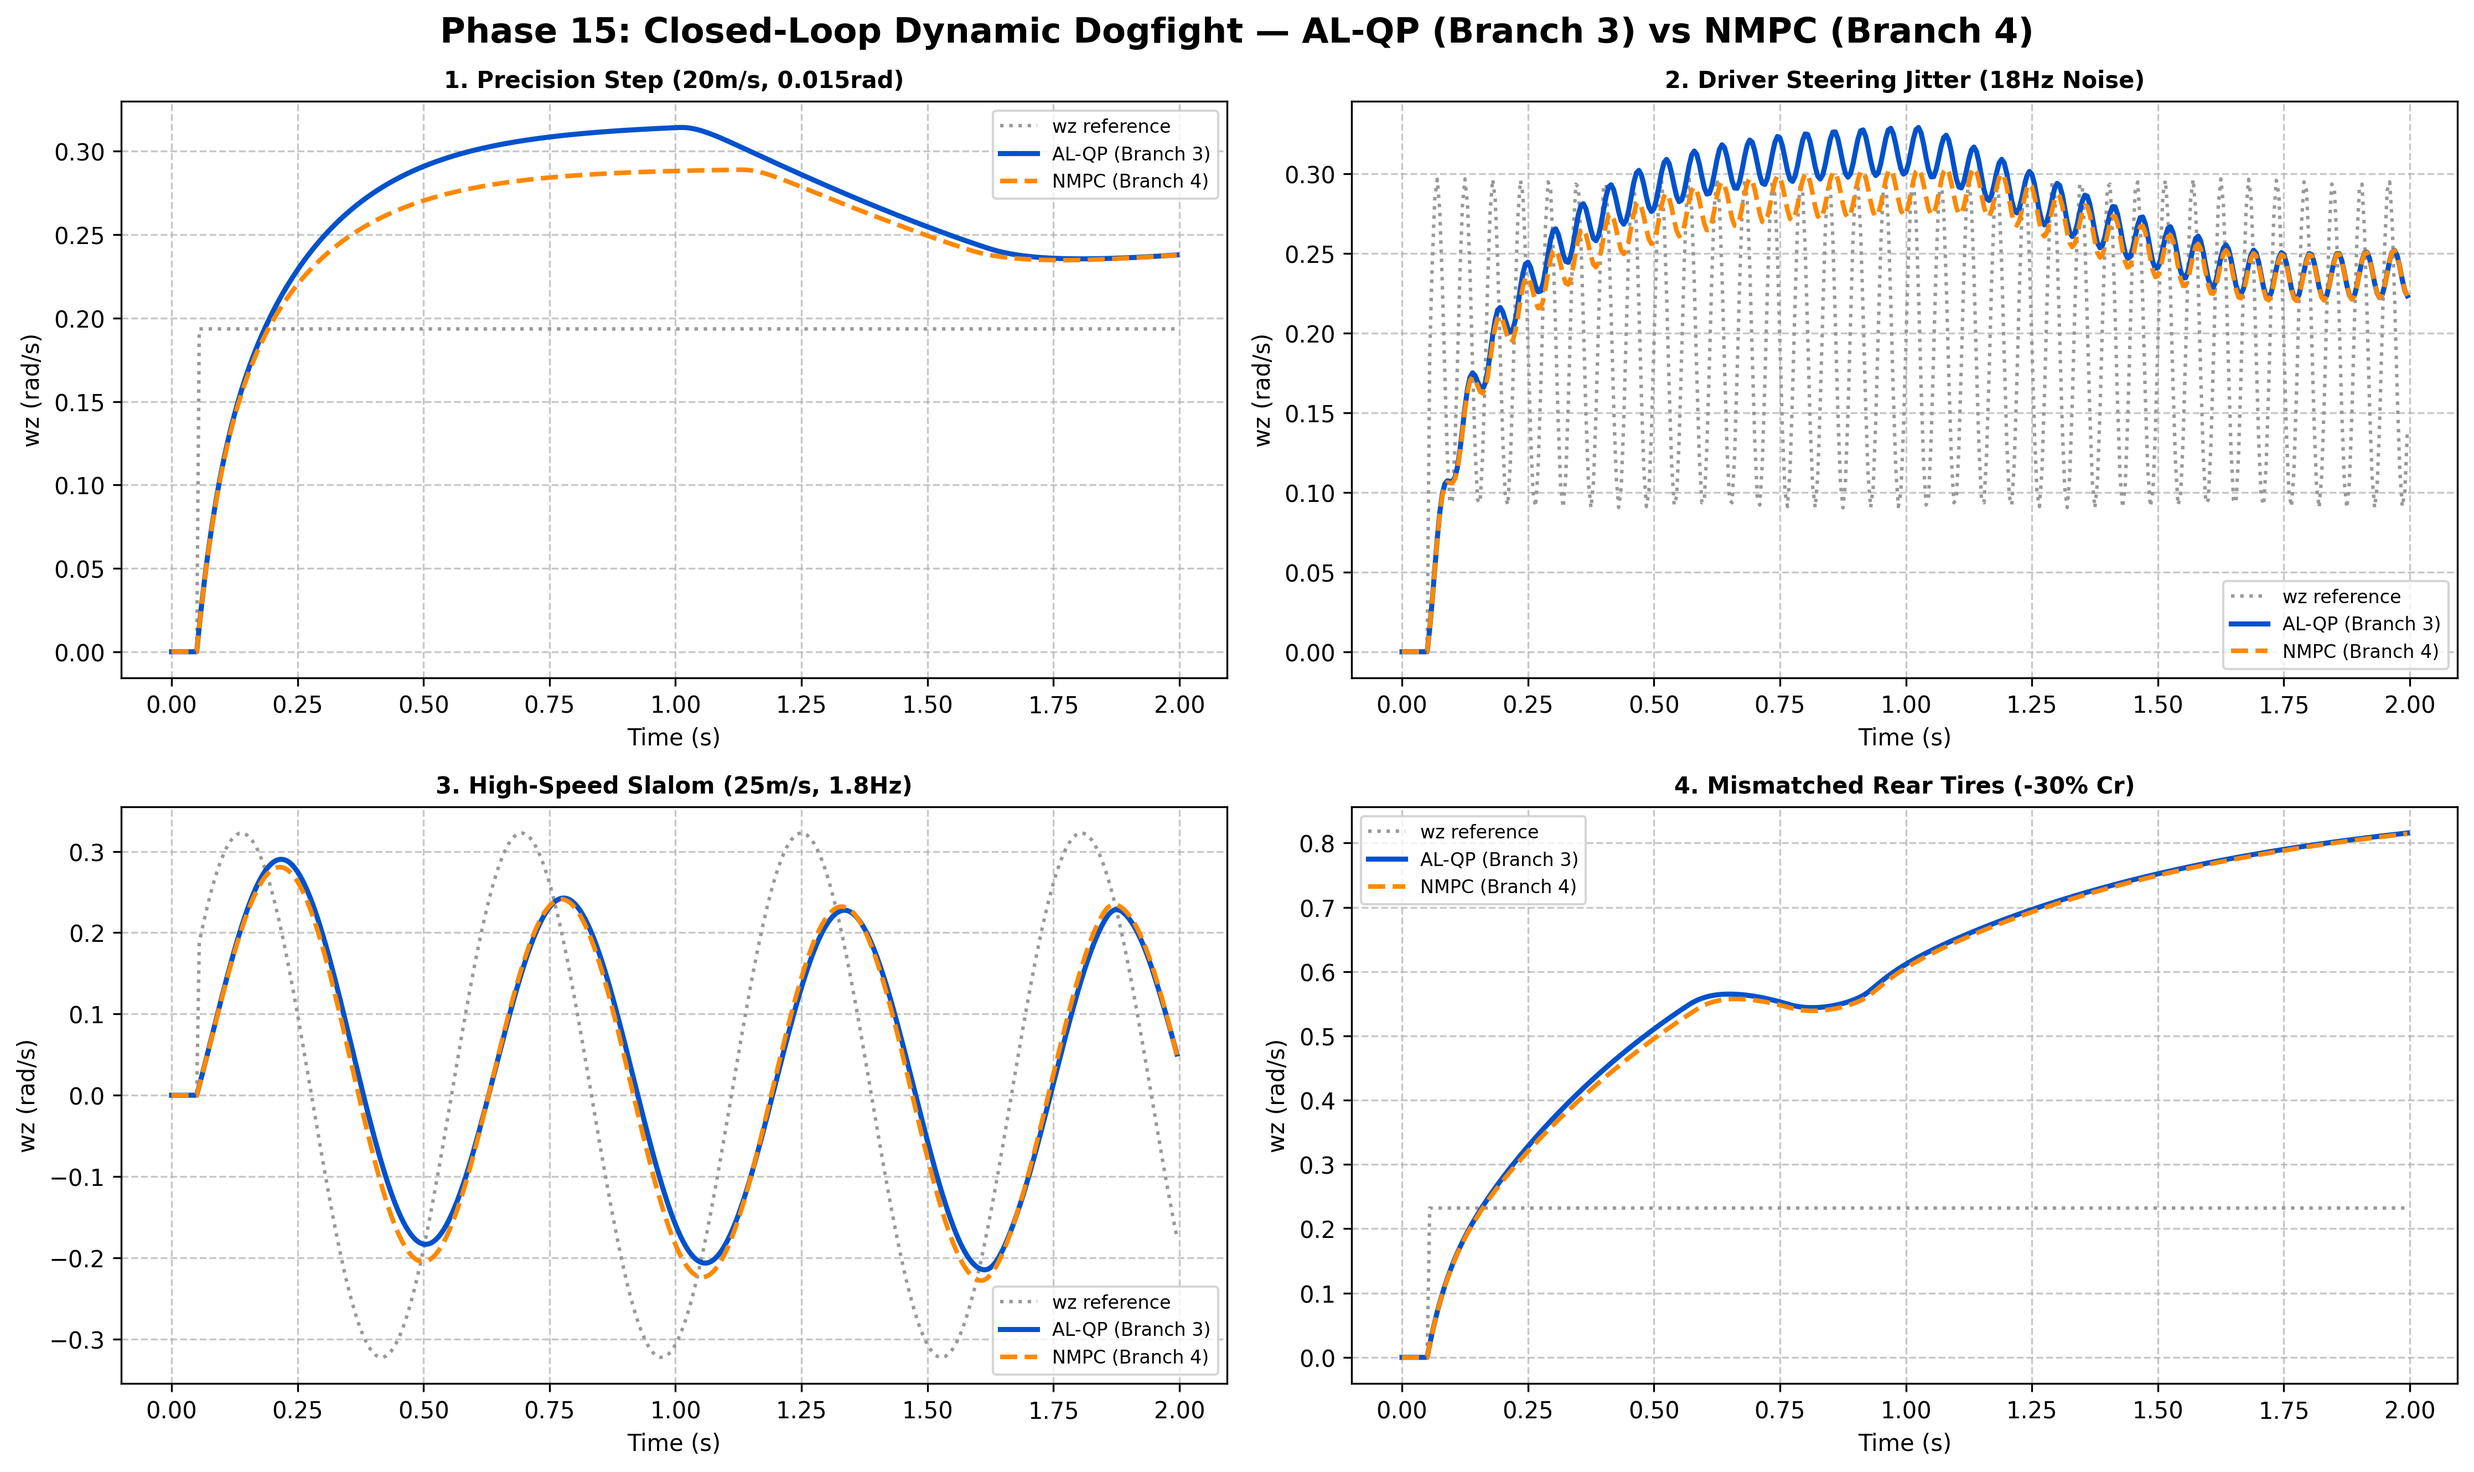
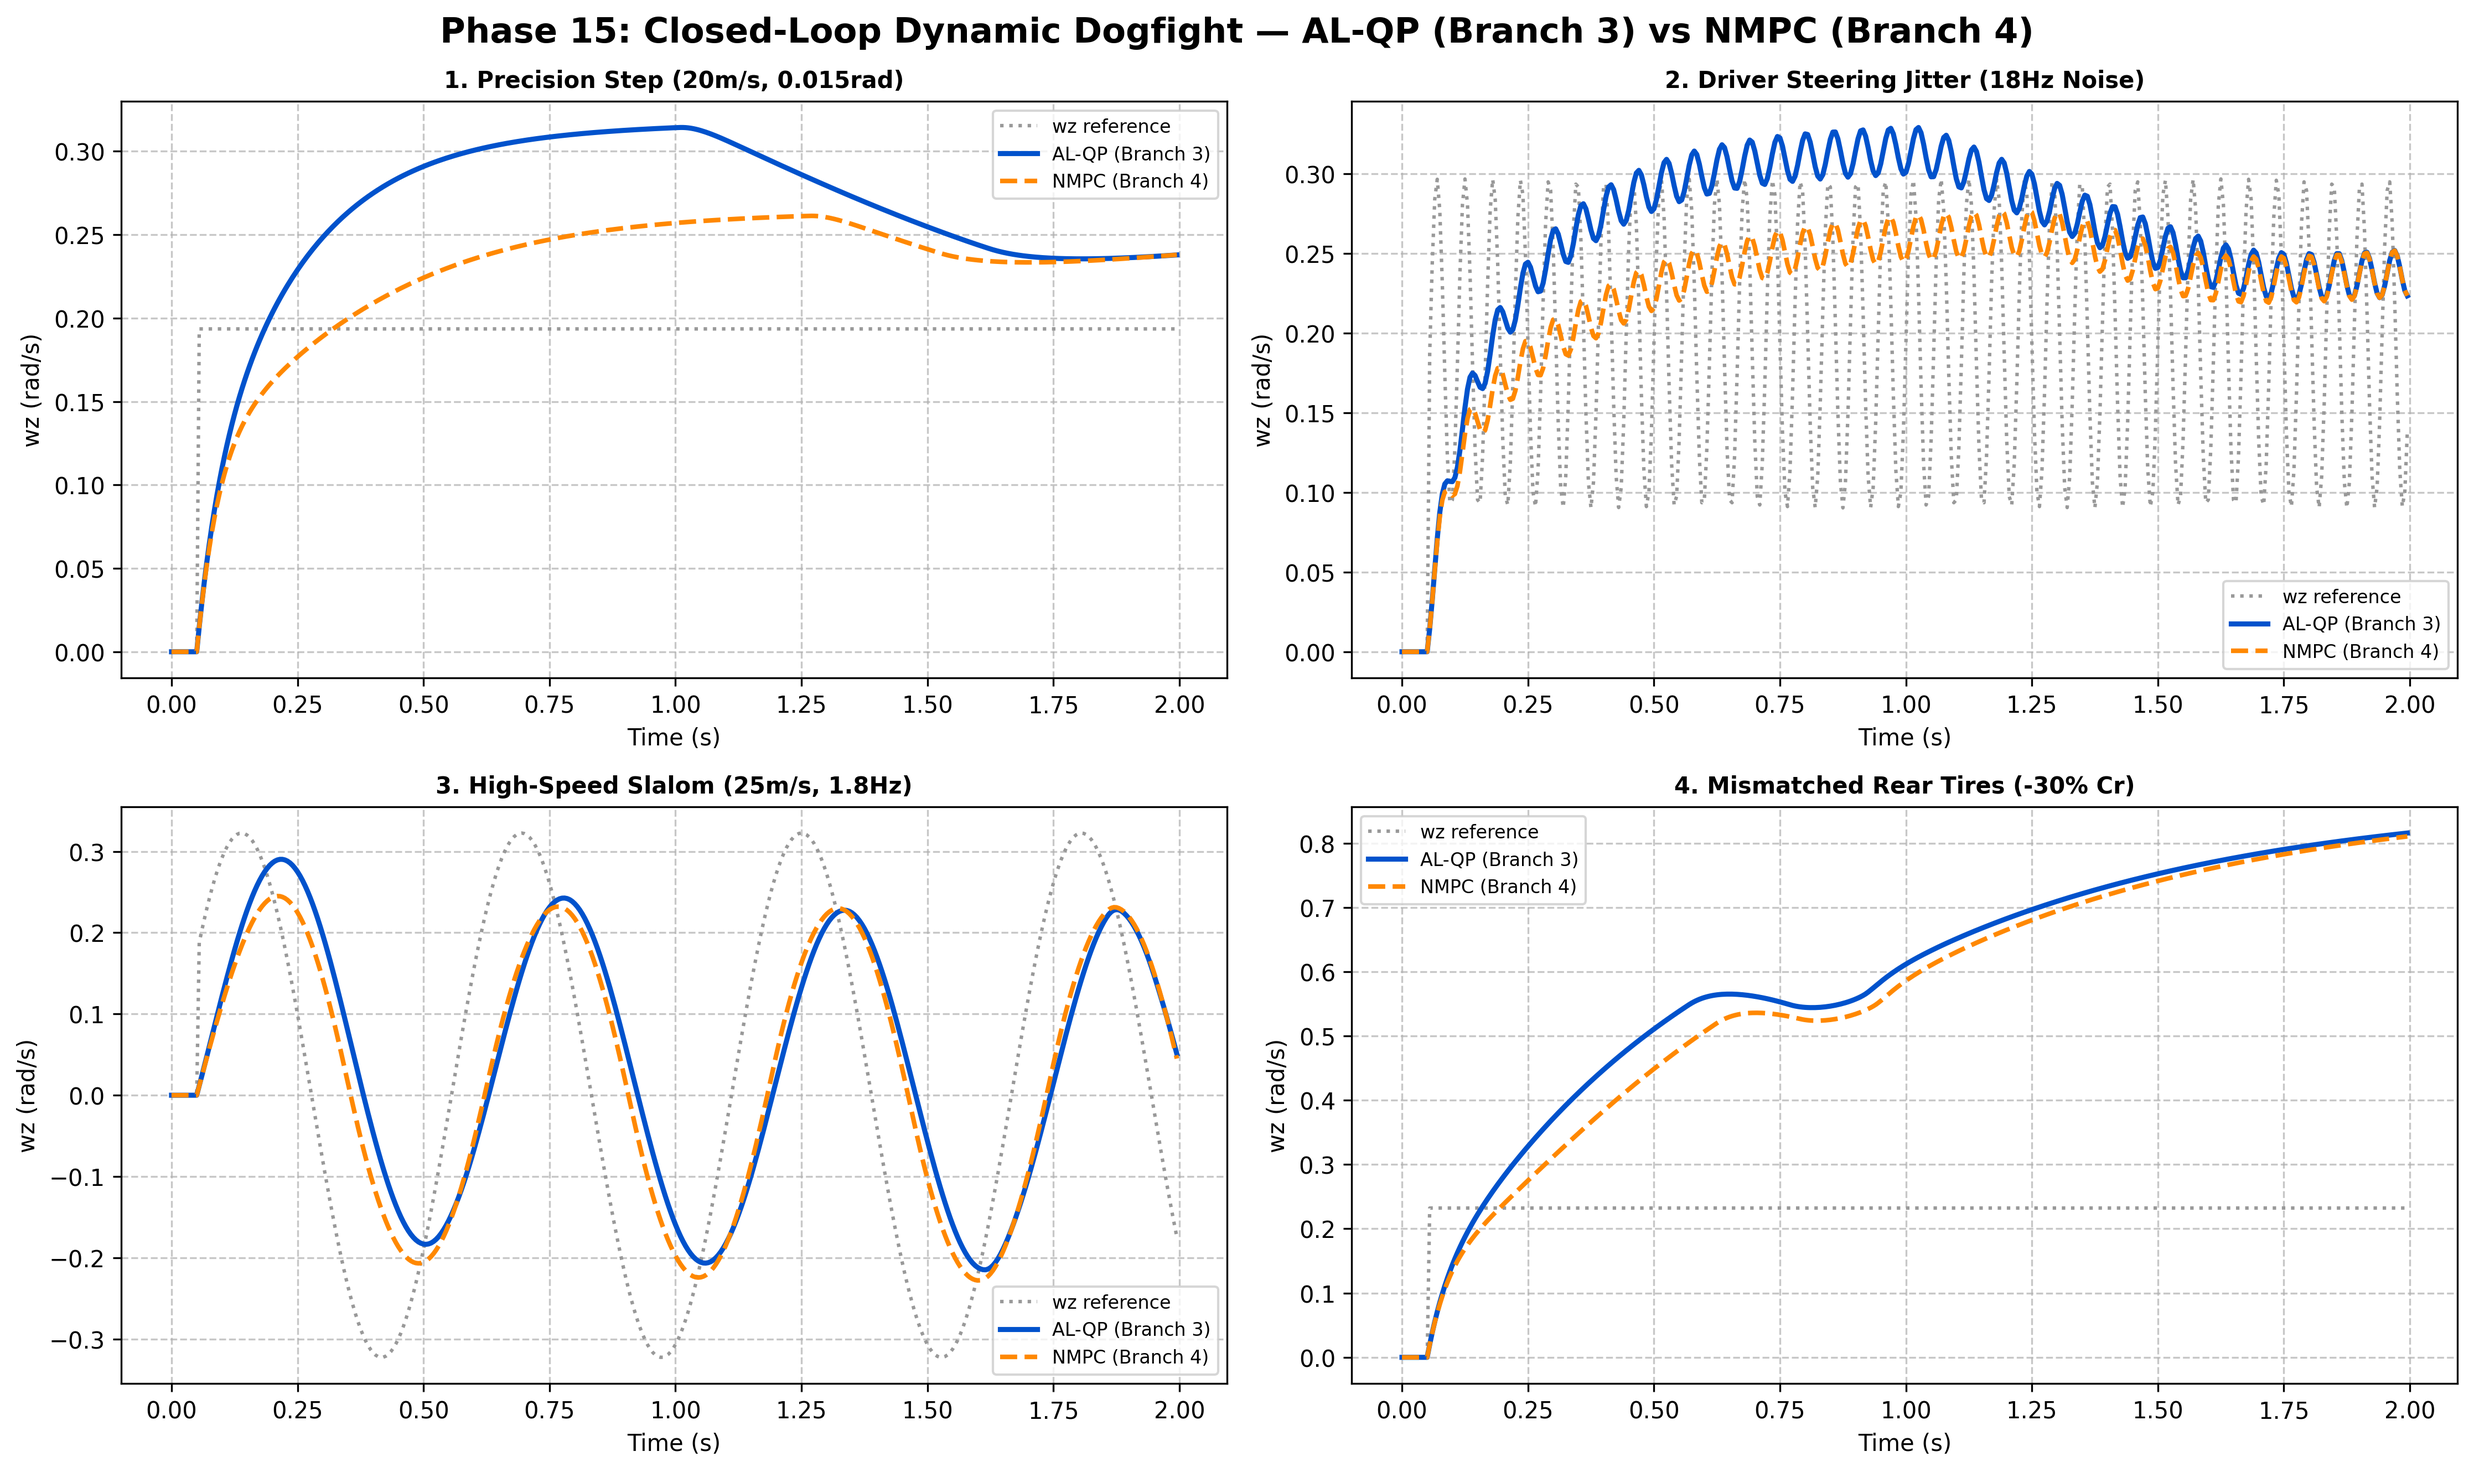
feat(v4): NMPC implementation and sanity checks trials

diff --git a/SOFTWARE/TeR_ECU/Libraries/TRQ_VECTORING/src/gp_traction_control.c b/SOFTWARE/TeR_ECU/Libraries/TRQ_VECTORING/src/gp_traction_control.c
@@ -12,6 +12,7 @@ void gp_tc_init(tc_state_t* state) {
         state->kappa_prev[i] = 0.0f;
         state->fx_prev[i] = 0.0f;
         state->kappa_opt[i] = 0.12f;
+        state->omega_dot_kick_filt[i] = 0.0f;   // NEW
     }
     state->mu_surface[0] = GP_TC_MU_NOM;
     state->mu_surface[1] = GP_TC_MU_NOM;
@@ -177,18 +178,25 @@ void gp_tc_step(
         state->omega_prev_ema[i] = omega_ema;
         state->omega_last_raw[i] = omega[i];
         
-        float error_gate = gp_sigmoid(error * 50.0f); 
-        // Curb-strike / lock-up derivative kick, mirrored: the original term
-        // only caught a sudden POSITIVE omega spike (wheel launched off a
-        // curb -> wheelspin risk). Under regen the dangerous spike is a
-        // sudden NEGATIVE omega_dot (wheel snapping toward lock). sign_i
-        // selects which physical direction is being commanded this tick, so
-        // only the relevant branch can ever fire for a given wheel.
-        float deriv_kick_pos = 20.0f * gp_softplus((omega_dot - 250.0f) * 0.05f);
-        float deriv_kick_neg = 20.0f * gp_softplus((-omega_dot - 250.0f) * 0.05f);
+        // Dedicated slow filter for the deriv-kick trigger signal. alpha=0.04 at
+        // dt=0.005s gives an effective time constant of ~125ms, enough to reject
+        // an 8Hz noise cycle (period 125ms) down to a small fraction of its raw
+        // amplitude while still passing a genuine curb-strike or wheel-lock
+        // transient, which ramps and HOLDS for 100-150ms rather than
+        // oscillating and reversing every 60ms.
+        // PRIOR: alpha=0.08 (~60ms tau) passed ~20% of 8Hz noise amplitude
+        // through, enough to toggle the deriv-kick on alternating half-cycles
+        // and produce visible chatter in Variable Grip Launch (Test 26).
+        const float GP_TC_KICK_LPF_ALPHA = 0.04f;
+        state->omega_dot_kick_filt[i] += GP_TC_KICK_LPF_ALPHA * (omega_dot - state->omega_dot_kick_filt[i]);
+        float omega_dot_kick = state->omega_dot_kick_filt[i];
+
+        float error_gate = gp_sigmoid(error * 50.0f);
+        float deriv_kick_pos = 20.0f * gp_softplus((omega_dot_kick - 250.0f) * 0.05f);
+        float deriv_kick_neg = 20.0f * gp_softplus((-omega_dot_kick - 250.0f) * 0.05f);
         float deriv_kick = 2.0f * ((sign_i > 0.0f) ? deriv_kick_pos : deriv_kick_neg);
 
-        pi_out -= deriv_kick * error_gate; 
+        pi_out += deriv_kick * error_gate;
         
         float reduction = speed_gate * gp_softplus(pi_out * GP_TC_CLAMP_BETA) / GP_TC_CLAMP_BETA;
 

diff --git a/SOFTWARE/TeR_ECU/Libraries/TRQ_VECTORING/master_sanity_checks.py b/SOFTWARE/TeR_ECU/Libraries/TRQ_VECTORING/master_sanity_checks.py
@@ -13,19 +13,19 @@ gp_lib_nmpc = ctypes.CDLL('./gp_core_nmpc.so')
 
 class TCState(ctypes.Structure):
     _fields_ = [
-        ("pi_integral",     ctypes.c_float * 4),
-        ("kappa_filt",      ctypes.c_float * 4),
-        ("mu_surface",      ctypes.c_float * 2),
-        ("omega_last_raw",  ctypes.c_float * 4),
-        ("omega_prev_ema",  ctypes.c_float * 4),
-        ("rls_P",           ctypes.c_float * 4),
-        ("rls_theta",       ctypes.c_float * 4),
-        ("theta_prev",      ctypes.c_float * 4),
-        ("kappa_prev",      ctypes.c_float * 4),
-        ("fx_prev",         ctypes.c_float * 4),
-        ("kappa_opt",       ctypes.c_float * 4),
+        ("pi_integral",         ctypes.c_float * 4),
+        ("kappa_filt",          ctypes.c_float * 4),
+        ("mu_surface",          ctypes.c_float * 2),
+        ("omega_last_raw",      ctypes.c_float * 4),
+        ("omega_prev_ema",      ctypes.c_float * 4),
+        ("rls_P",               ctypes.c_float * 4),
+        ("rls_theta",           ctypes.c_float * 4),
+        ("theta_prev",          ctypes.c_float * 4),
+        ("kappa_prev",          ctypes.c_float * 4),
+        ("fx_prev",             ctypes.c_float * 4),
+        ("kappa_opt",           ctypes.c_float * 4),
+        ("omega_dot_kick_filt", ctypes.c_float * 4),   # NEW — matches tc_state_t
     ]
-
 class EkfState(ctypes.Structure):
     _fields_ = [
         ("x",            ctypes.c_float * 2),        # 2 states (vy, bw)
@@ -86,7 +86,7 @@ class TVState(ctypes.Structure):
     ]
 
 # Structural Safety Assertions
-assert ctypes.sizeof(TCState) == 42 * 4, f"TCState size mismatch"
+assert ctypes.sizeof(TCState) == 46 * 4, f"TCState size mismatch"
 
 def _bind(lib):
     lib.gp_tv_state_sizeof.restype = ctypes.c_size_t

diff --git a/SOFTWARE/TeR_ECU/Libraries/TRQ_VECTORING/src/gp_math.c b/SOFTWARE/TeR_ECU/Libraries/TRQ_VECTORING/src/gp_math.c
@@ -55,8 +55,25 @@ float gp_bilinear_interp_4x4(const float table[16], float x_norm, float y_norm) 
            c11 * fx          * fy;
 }
 
-// Saturación suave magnitud-only
+// Saturación suave magnitud-only — smooth soft-minimum of (val, limit).
+//
+// PRIOR BUG: limit * tanh(val * alpha / limit) has derivative alpha at the
+// origin, not 1.0. With alpha = 0.25, EVERY value — even those far below
+// the cap — was multiplied by 0.25. The entire regen-budget enforcement
+// chain (pre-solve t_lb[] derivation AND post-solve rescale) depends on
+// gp_soft_cap(demand, budget, ...) ≈ demand when demand << budget, and
+// gp_soft_cap(demand, budget, ...) → budget when demand >> budget. The tanh
+// formulation gave gp_soft_cap(50, 300, 0.25) ≈ 12.7 instead of ≈ 50.
+//
+// FIX: val − (1/alpha) * softplus(alpha * (val − limit)).
+//   • At val << limit: softplus(negative_large) → 0 ⇒ result ≈ val   ✓
+//   • At val >> limit: softplus(positive_large) ≈ alpha*(val−limit)
+//                       ⇒ result ≈ val − (val−limit) = limit           ✓
+//   • alpha controls the transition sharpness near val ≈ limit.
+//     Larger alpha → sharper elbow, smaller alpha → wider blend region.
 float gp_soft_cap(float val, float limit, float alpha) {
     if (val <= 0.0f) return 0.0f;
-    return limit * tanhf(val * alpha / limit);
+    float alpha_safe = (alpha > 1e-6f) ? alpha : 1e-6f;
+    float x = alpha_safe * (val - limit);
+    return val - gp_softplus(x) / alpha_safe;
 }

diff --git a/SOFTWARE/TeR_ECU/Libraries/TRQ_VECTORING/inc/gp_traction_control.h b/SOFTWARE/TeR_ECU/Libraries/TRQ_VECTORING/inc/gp_traction_control.h
@@ -38,6 +38,8 @@ typedef struct {
     float kappa_prev[4];   
     float fx_prev[4];      
     float kappa_opt[4];    
+    float omega_dot_kick_filt[4];   // NEW: dedicated slow filter for the deriv-kick trigger only
+
 } tc_state_t;
 
 void gp_tc_init(tc_state_t* state);
